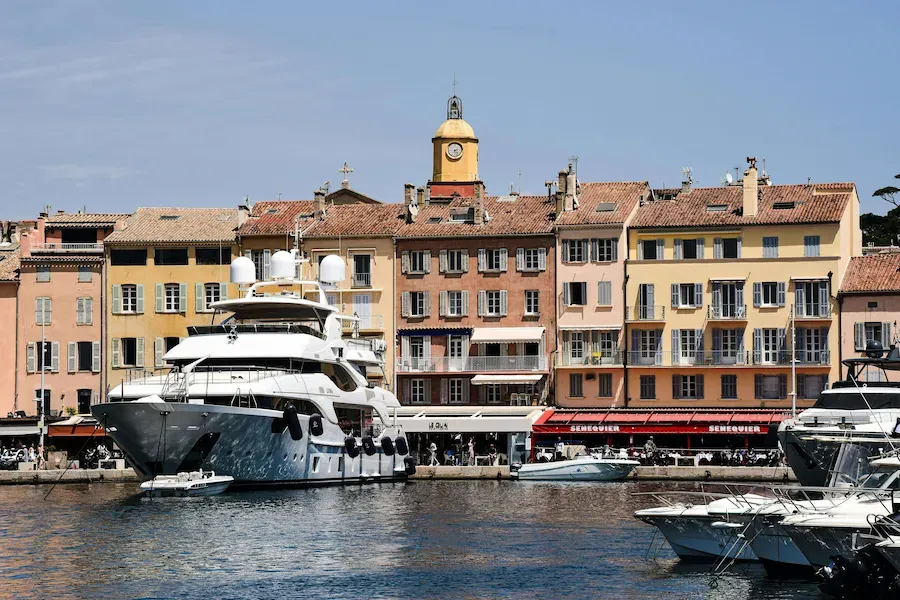
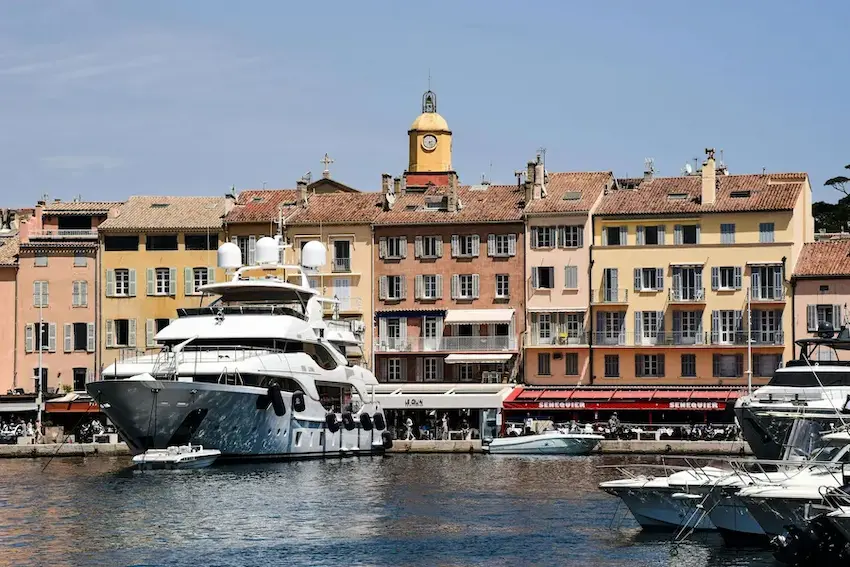
fix: SEO 100 canonical intro.html + CSS non-bloquant + preload LCP optimisé

diff --git a/index.html b/index.html
@@ -10,7 +10,7 @@
         content="Création site internet sur mesure à Saint-Tropez. Sites rapides, SEO local, sans template. Artisans et PME du Var 83. Devis gratuit sous 24h." />
     <meta name="keywords"
         content="développeur web saint-tropez, création site internet saint-tropez, site internet saint-tropez, création site internet var, développeur web var, site internet var, création site web cogolin, développeur web grimaud, création site sainte-maxime, agence web saint-tropez, site internet golfe saint-tropez, freelance web var 83, création site artisan var, site vitrine saint-tropez, e-commerce var" />
-    <meta name="robots" content="index, follow" />
+    <meta name="robots" content="index, follow, max-image-preview:large, max-snippet:-1, max-video-preview:-1" />
     <meta name="author" content="Guillaume Robin — Sud Web Project" />
     <meta name="geo.region" content="FR-83" />
     <meta name="geo.placename" content="Saint-Tropez, Var, Provence-Alpes-Côte d'Azur" />
@@ -44,18 +44,27 @@
     <meta name="twitter:image" content="https://www.sudwebproject.com/assets/images/og-sudwebproject.webp" />
     <meta name="twitter:image:alt" content="Développeur Web Saint-Tropez — Sud Web Project" />
     <script
-        type="application/ld+json">{"@context":"https://schema.org","@type":"ProfessionalService","name":"Sud Web Project — Développeur Web Saint-Tropez","description":"Développeur web freelance basé à Saint-Tropez. Création de sites internet sur mesure pour artisans, PME et commerces du Var et de France entière.","url":"https://www.sudwebproject.com","telephone":"+33611547324","email":"contact@sudwebproject.com","priceRange":"€€","currenciesAccepted":"EUR","paymentAccepted":"Virement, Chèque","founder":{"@type":"Person","name":"Guillaume Robin","jobTitle":"Développeur web freelance"},"openingHours":"Mo-Sa 08:00-19:00","address":{"@type":"PostalAddress","streetAddress":"Saint-Tropez","addressLocality":"Saint-Tropez","addressRegion":"Provence-Alpes-Côte d'Azur","postalCode":"83990","addressCountry":"FR"},"geo":{"@type":"GeoCoordinates","latitude":"43.2677","longitude":"6.6407"},"areaServed":[{"@type":"City","name":"Saint-Tropez"},{"@type":"City","name":"Cogolin"},{"@type":"City","name":"Grimaud"},{"@type":"City","name":"Ramatuelle"},{"@type":"City","name":"Sainte-Maxime"},{"@type":"City","name":"Gassin"},{"@type":"City","name":"Fréjus"},{"@type":"City","name":"Saint-Raphaël"},{"@type":"City","name":"Toulon"},{"@type":"AdministrativeArea","name":"Var"}],"hasOfferCatalog":{"@type":"OfferCatalog","name":"Création de sites internet","itemListElement":[{"@type":"Offer","name":"Site vitrine Web Essentiel","price":"600","priceCurrency":"EUR"},{"@type":"Offer","name":"Site web Premium","price":"1300","priceCurrency":"EUR"},{"@type":"Offer","name":"Site web Ultra","price":"2000","priceCurrency":"EUR"}]},"aggregateRating":{"@type":"AggregateRating","ratingValue":"5","reviewCount":"3","bestRating":"5"},"review":[{"@type":"Review","author":{"@type":"Person","name":"Servane Roy Berton"},"reviewRating":{"@type":"Rating","ratingValue":"5","bestRating":"5"},"reviewBody":"Très satisfait du travail réalisé pour mon site internet de photographe. Professionnel, réactif et à l'écoute.","datePublished":"2025-02-01"},{"@type":"Review","author":{"@type":"Person","name":"Clement Dolphens"},"reviewRating":{"@type":"Rating","ratingValue":"5","bestRating":"5"},"reviewBody":"Très bon accompagnement, conseils clairs et travail de qualité. Je recommande fortement pour toute création de site web dans le Var.","datePublished":"2025-02-01"},{"@type":"Review","author":{"@type":"Person","name":"Heloise Berton"},"reviewRating":{"@type":"Rating","ratingValue":"5","bestRating":"5"},"reviewBody":"Super expérience avec Sud Web Project. Un excellent développeur web à Saint-Tropez, sérieux et compétent.","datePublished":"2025-02-01"}]}</script>
+        type="application/ld+json">{"@context":"https://schema.org","@type":"ProfessionalService","name":"Sud Web Project — Développeur Web Saint-Tropez","description":"Développeur web freelance basé à Saint-Tropez. Création de sites internet sur mesure, refonte et maintenance pour artisans, PME et commerces du Var et de France entière.","url":"https://www.sudwebproject.com","telephone":"+33611547324","email":"contact@sudwebproject.com","priceRange":"€€","currenciesAccepted":"EUR","paymentAccepted":"Virement, Chèque","founder":{"@type":"Person","name":"Guillaume Robin","jobTitle":"Développeur web freelance"},"openingHours":"Mo-Sa 08:00-19:00","address":{"@type":"PostalAddress","streetAddress":"Saint-Tropez","addressLocality":"Saint-Tropez","addressRegion":"Provence-Alpes-Côte d'Azur","postalCode":"83990","addressCountry":"FR"},"geo":{"@type":"GeoCoordinates","latitude":"43.2677","longitude":"6.6407"},"areaServed":[{"@type":"City","name":"Saint-Tropez"},{"@type":"City","name":"Ramatuelle"},{"@type":"City","name":"Gassin"},{"@type":"City","name":"Grimaud"},{"@type":"City","name":"Cogolin"},{"@type":"City","name":"Sainte-Maxime"},{"@type":"City","name":"Fréjus"},{"@type":"City","name":"Saint-Raphaël"},{"@type":"City","name":"Toulon"},{"@type":"AdministrativeArea","name":"Var"}],"hasOfferCatalog":{"@type":"OfferCatalog","name":"Services de développement web","itemListElement":[{"@type":"Offer","name":"Création de site internet — Web Essentiel","description":"Site vitrine 3 pages, 100% responsive, SEO de base, formulaire de contact. Propriété 100% client.","price":"600","priceCurrency":"EUR","url":"https://www.sudwebproject.com/#tarifs"},{"@type":"Offer","name":"Création de site internet — Web Premium","description":"Site vitrine jusqu'à 6 pages, design 100% sur-mesure, fonctionnalités métier, SEO page par page.","price":"1300","priceCurrency":"EUR","url":"https://www.sudwebproject.com/#tarifs"},{"@type":"Offer","name":"Création de site internet — Web Ultra","description":"Site 7 pages et plus, e-commerce possible, multilingue, galerie professionnelle, SEO avancé.","price":"2000","priceCurrency":"EUR","url":"https://www.sudwebproject.com/#tarifs"},{"@type":"Offer","name":"Refonte de site internet","description":"Transformation d'un site lent ou vieilli en vitrine premium — performances optimisées, SEO local, design haut de gamme. Audit gratuit sous 24h.","url":"https://www.sudwebproject.com/refonte-site-internet.html"},{"@type":"Offer","name":"Maintenance de site web — Formule Basique","description":"2h de modifications/mois, mises à jour sécurité, sauvegardes mensuelles, support email.","price":"60","priceCurrency":"EUR","url":"https://www.sudwebproject.com/maintenance.html"},{"@type":"Offer","name":"Maintenance de site web — Formule Pro","description":"4h de modifications/mois, mises à jour prioritaires, sauvegardes hebdomadaires, compte-rendu mensuel, support prioritaire 24h.","price":"120","priceCurrency":"EUR","url":"https://www.sudwebproject.com/maintenance.html"}]},"aggregateRating":{"@type":"AggregateRating","ratingValue":"5","reviewCount":"3","bestRating":"5"},"review":[{"@type":"Review","author":{"@type":"Person","name":"Servane Roy Berton"},"reviewRating":{"@type":"Rating","ratingValue":"5","bestRating":"5"},"reviewBody":"Très satisfait du travail réalisé pour mon site internet de photographe. Professionnel, réactif et à l'écoute.","datePublished":"2025-02-01"},{"@type":"Review","author":{"@type":"Person","name":"Clement Dolphens"},"reviewRating":{"@type":"Rating","ratingValue":"5","bestRating":"5"},"reviewBody":"Très bon accompagnement, conseils clairs et travail de qualité. Je recommande fortement pour toute création de site web dans le Var.","datePublished":"2025-02-01"},{"@type":"Review","author":{"@type":"Person","name":"Heloise Berton"},"reviewRating":{"@type":"Rating","ratingValue":"5","bestRating":"5"},"reviewBody":"Super expérience avec Sud Web Project. Un excellent développeur web à Saint-Tropez, sérieux et compétent.","datePublished":"2025-02-01"}]}</script>
     <script
         type="application/ld+json">{"@context":"https://schema.org","@type":"FAQPage","mainEntity":[{"@type":"Question","name":"Combien coûte la création d'un site internet à Saint-Tropez ?","acceptedAnswer":{"@type":"Answer","text":"La création d'un site internet à Saint-Tropez commence à partir de 600€ pour un site vitrine essentiel. Un site Premium est à partir de 1 300€. Devis gratuit sous 24h."}},{"@type":"Question","name":"Quel développeur web choisir dans le Var ?","acceptedAnswer":{"@type":"Answer","text":"Sud Web Project est un développeur web freelance basé à Saint-Tropez, spécialisé dans la création de sites internet sur mesure pour les artisans et PME du Var."}},{"@type":"Question","name":"Intervenez-vous à Cogolin, Grimaud, Sainte-Maxime ?","acceptedAnswer":{"@type":"Answer","text":"Oui, Sud Web Project intervient dans tout le Golfe de Saint-Tropez."}},{"@type":"Question","name":"Restez-vous propriétaire de votre site internet ?","acceptedAnswer":{"@type":"Answer","text":"Oui, vous êtes propriétaire à 100% de votre site et de votre nom de domaine."}}]}</script>
     <link rel="canonical" href="https://www.sudwebproject.com/" />
     <link rel="sitemap" type="application/xml" href="/sitemap.xml" />
     <link rel="alternate" hreflang="fr" href="https://www.sudwebproject.com/" />
     <link rel="alternate" hreflang="x-default" href="https://www.sudwebproject.com/" />
-    <link rel="preload" as="image" href="assets/images/port-saint-tropez.webp" type="image/webp" fetchpriority="high" />
-    <link rel="stylesheet" href="css/global.css" />
-    <link rel="stylesheet" href="css/index.css" />
-    <link rel="stylesheet" href="css/cookies.css" />
-    <link rel="stylesheet" href="css/fonts-local.css" />
+    <link rel="preload" as="image" href="assets/images/port-saint-tropez.webp" type="image/webp" fetchpriority="high"
+        imagesrcset="assets/images/port-saint-tropez-mobile.webp 768w, assets/images/port-saint-tropez.webp 900w"
+        imagesizes="(max-width:768px) 768px, 900px" />
+    <!-- CSS non-bloquant — technique preload/onload -->
+    <link rel="preload" href="css/global.css" as="style" onload="this.onload=null;this.rel='stylesheet'" />
+    <link rel="preload" href="css/index.css" as="style" onload="this.onload=null;this.rel='stylesheet'" />
+    <link rel="preload" href="css/cookies.css" as="style" onload="this.onload=null;this.rel='stylesheet'" />
+    <link rel="preload" href="css/fonts-local.css" as="style" onload="this.onload=null;this.rel='stylesheet'" />
+    <noscript>
+        <link rel="stylesheet" href="css/global.css" />
+        <link rel="stylesheet" href="css/index.css" />
+        <link rel="stylesheet" href="css/cookies.css" />
+        <link rel="stylesheet" href="css/fonts-local.css" />
+    </noscript>
 </head>
 
 <body>
@@ -338,8 +347,8 @@
                     <h3 data-i18n="etudes.c2.t">Attirer la clientèle locale, faciliter les RDV.</h3>
                     <p data-i18n="etudes.c2.d">Un site moderne pour attirer une clientèle locale et faciliter la prise
                         de rendez-vous.</p>
-                    <a href="etude-cas-coiffeur.html" class="btn-outline-sm" data-i18n="etudes.c2.cta">Voir
-                        l'étude de cas coiffeur →</a>
+                    <a href="etude-cas-coiffeur.html" class="btn-outline-sm" data-i18n="etudes.c2.cta">Voir l'étude de
+                        cas coiffeur →</a>
                 </article>
                 <article class="etude-card" data-scroll>
                     <div class="etude-icon" aria-hidden="true">🍽</div>
@@ -347,8 +356,8 @@
                     <h3 data-i18n="etudes.c3.t">Augmenter les réservations, valoriser l'image.</h3>
                     <p data-i18n="etudes.c3.d">Un site conçu pour augmenter les réservations et valoriser l'image du
                         restaurant.</p>
-                    <a href="creation-site-internet-restaurant.html" class="btn-outline-sm"
-                        data-i18n="etudes.c3.cta">Voir l'étude de cas restaurant →</a>
+                    <a href="etude-cas-restaurant.html" class="btn-outline-sm" data-i18n="etudes.c3.cta">Voir l'étude de
+                        cas restaurant →</a>
                 </article>
             </div>
             <div class="section-cta" style="margin-top:3rem;padding-top:2rem">

diff --git a/intro.html b/intro.html
@@ -11,7 +11,7 @@
         content="Développeur web freelance à Saint-Tropez. Création de sites internet sur mesure pour artisans et PME du Var 83. Devis gratuit sous 24h." />
     <meta name="keywords"
         content="développeur web saint-tropez, création site internet saint-tropez, création site internet var, développeur web var, agence web saint-tropez, site internet var 83" />
-    <meta name="robots" content="index, follow" />
+    <meta name="robots" content="noindex, follow" />
     <meta name="author" content="Guillaume Robin — Sud Web Project" />
     <meta name="geo.region" content="FR-83" />
     <meta name="geo.placename" content="Saint-Tropez, Var, Provence-Alpes-Côte d'Azur" />
@@ -54,7 +54,7 @@
         type="application/ld+json">{"@context":"https://schema.org","@type":"ProfessionalService","name":"Sud Web Project — Développeur Web Saint-Tropez","description":"Développeur web freelance basé à Saint-Tropez. Création de sites internet sur mesure pour artisans, PME et commerces du Var et de France entière.","url":"https://www.sudwebproject.com","telephone":"+33611547324","email":"contact@sudwebproject.com","priceRange":"€€","founder":{"@type":"Person","name":"Guillaume Robin","jobTitle":"Développeur web freelance"},"openingHours":"Mo-Sa 08:00-19:00","address":{"@type":"PostalAddress","addressLocality":"Saint-Tropez","addressRegion":"Provence-Alpes-Côte d'Azur","postalCode":"83990","addressCountry":"FR"},"geo":{"@type":"GeoCoordinates","latitude":"43.2677","longitude":"6.6407"},"areaServed":[{"@type":"City","name":"Saint-Tropez"},{"@type":"City","name":"Cogolin"},{"@type":"City","name":"Grimaud"},{"@type":"City","name":"Sainte-Maxime"},{"@type":"City","name":"Fréjus"},{"@type":"City","name":"Saint-Raphaël"},{"@type":"City","name":"Toulon"},{"@type":"AdministrativeArea","name":"Var"}]}</script>
 
     <!-- ═══ CANONICAL ═══ -->
-    <link rel="canonical" href="https://www.sudwebproject.com/" />
+    <link rel="canonical" href="https://www.sudwebproject.com/intro.html" />
     <link rel="sitemap" type="application/xml" href="/sitemap.xml" />
     <link rel="alternate" hreflang="fr" href="https://www.sudwebproject.com/" />
     <link rel="alternate" hreflang="x-default" href="https://www.sudwebproject.com/" />
